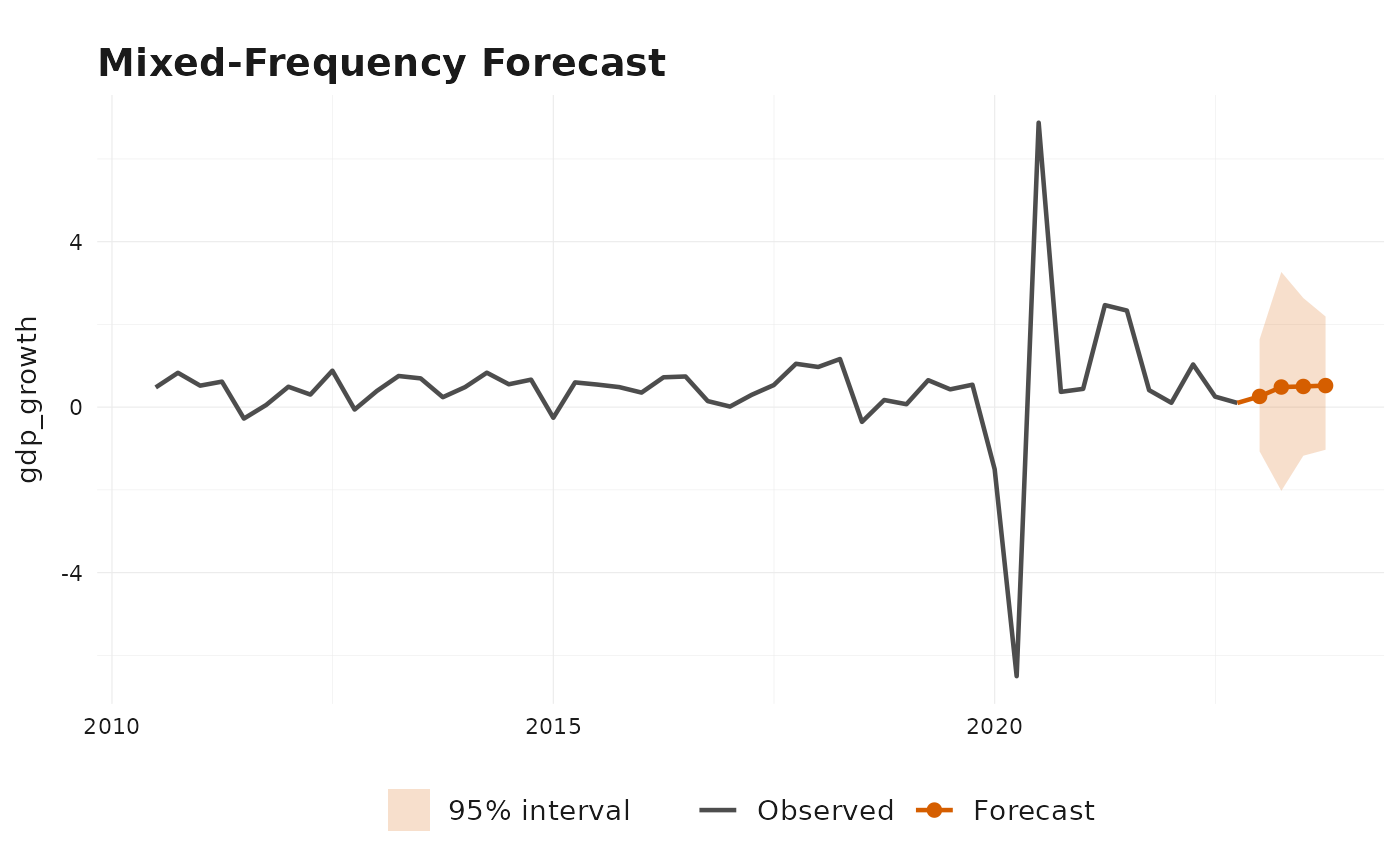
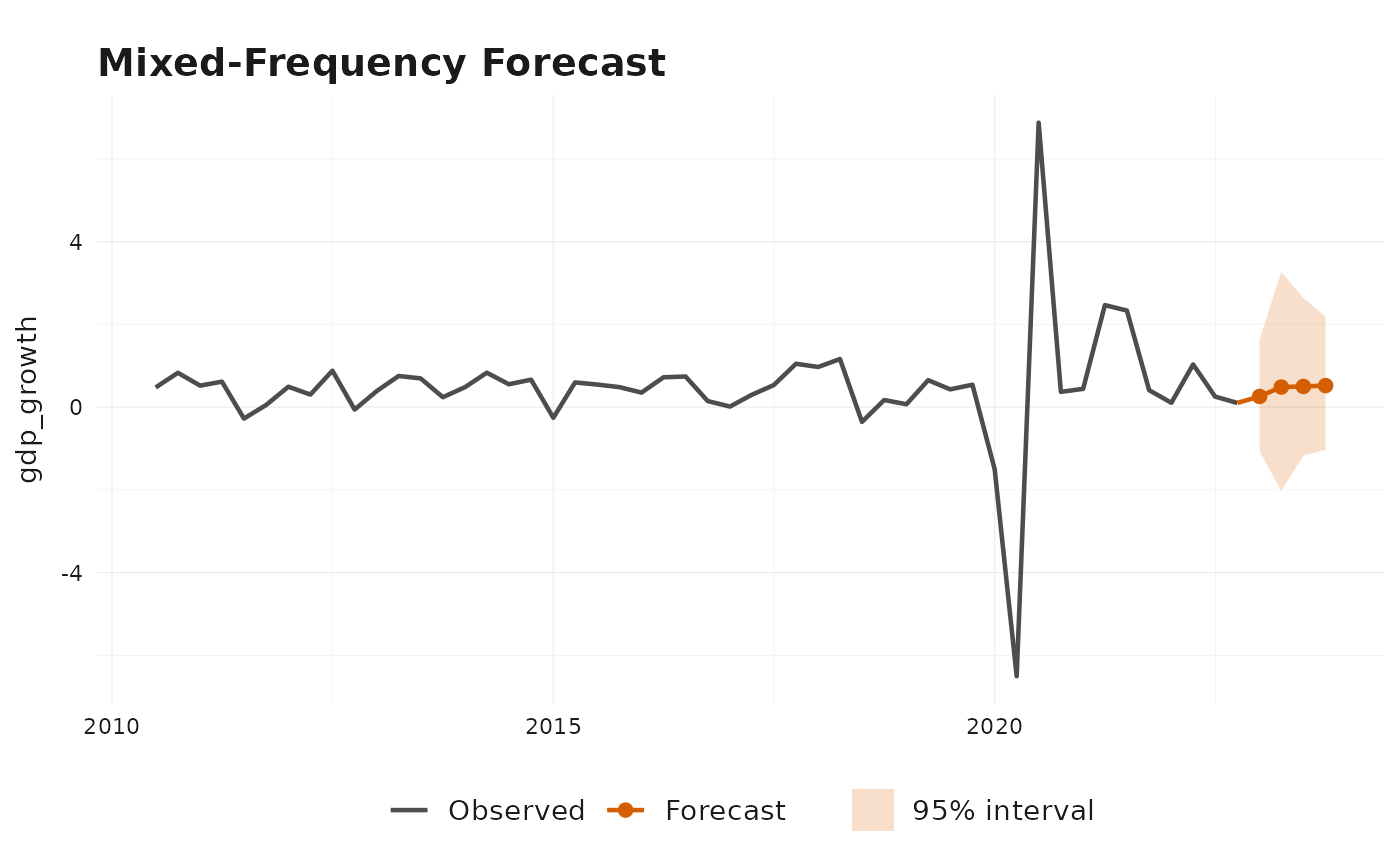
Deploying to gh-pages from @ marcburri/bridgr@0afef99fe4f7a8aef9105225bc90c36d7242f563 🚀

Changed region(s): [[0.4914, 0.9052, 0.7986, 0.9676], [0.2764, 0.9052, 0.4607, 0.9676]]

diff --git a/reference/mf_model-accessors.html b/reference/mf_model-accessors.html
@@ -5,7 +5,7 @@
       fontURL: "https://cdn.jsdelivr.net/npm/mathjax@3.2.2/es5/output/chtml/fonts/woff-v2"
     }
   };
-</script><script src="../lightswitch.js"></script><script src="../deps/jquery-3.6.0/jquery-3.6.0.min.js"></script><meta name="viewport" content="width=device-width, initial-scale=1, shrink-to-fit=no"><link href="../deps/bootstrap-5.3.1/bootstrap.min.css" rel="stylesheet"><script src="../deps/bootstrap-5.3.1/bootstrap.bundle.min.js"></script><link href="../deps/font-awesome-6.5.2/css/all.min.css" rel="stylesheet"><link href="../deps/font-awesome-6.5.2/css/v4-shims.min.css" rel="stylesheet"><script src="../deps/headroom-0.11.0/headroom.min.js"></script><script src="../deps/headroom-0.11.0/jQuery.headroom.min.js"></script><script src="../deps/bootstrap-toc-1.0.1/bootstrap-toc.min.js"></script><script src="../deps/clipboard.js-2.0.11/clipboard.min.js"></script><script src="../deps/search-1.0.0/autocomplete.jquery.min.js"></script><script src="../deps/search-1.0.0/fuse.min.js"></script><script src="../deps/search-1.0.0/mark.min.js"></script><!-- pkgdown --><script src="../pkgdown.js"></script><meta property="og:title" content="Accessor Methods for Mixed-Frequency Models — mf_model-accessors"><meta name="description" content="Access standard model summaries from a fitted mf_model() object."><meta property="og:description" content="Access standard model summaries from a fitted mf_model() object."><meta property="og:image" content="https://marcburri.github.io/bridgr/logo.png"></head><body>
+</script><script src="../lightswitch.js"></script><script src="../deps/jquery-3.6.0/jquery-3.6.0.min.js"></script><meta name="viewport" content="width=device-width, initial-scale=1, shrink-to-fit=no"><link href="../deps/bootstrap-5.3.8/bootstrap.min.css" rel="stylesheet"><script src="../deps/bootstrap-5.3.8/bootstrap.bundle.min.js"></script><link href="../deps/font-awesome-6.5.2/css/all.min.css" rel="stylesheet"><link href="../deps/font-awesome-6.5.2/css/v4-shims.min.css" rel="stylesheet"><script src="../deps/headroom-0.11.0/headroom.min.js"></script><script src="../deps/headroom-0.11.0/jQuery.headroom.min.js"></script><script src="../deps/bootstrap-toc-1.0.1/bootstrap-toc.min.js"></script><script src="../deps/clipboard.js-2.0.11/clipboard.min.js"></script><script src="../deps/search-1.0.0/autocomplete.jquery.min.js"></script><script src="../deps/search-1.0.0/fuse.min.js"></script><script src="../deps/search-1.0.0/mark.min.js"></script><!-- pkgdown --><script src="../pkgdown.js"></script><meta property="og:title" content="Accessor Methods for Mixed-Frequency Models — mf_model-accessors"><meta name="description" content="Access standard model summaries from a fitted mf_model() object."><meta property="og:description" content="Access standard model summaries from a fitted mf_model() object."><meta property="og:image" content="https://marcburri.github.io/bridgr/logo.png"></head><body>
     <a href="#main" class="visually-hidden-focusable">Skip to contents</a>
 
 
@@ -96,7 +96,11 @@
 
 <dt id="arg-parm-level">parm, level<a class="anchor" aria-label="anchor" href="#arg-parm-level"></a></dt>
 <dd><p>Passed to <code><a href="https://rdrr.io/r/stats/confint.html" class="external-link">confint()</a></code>. Confidence intervals are computed
-from the coefficient covariance matrix returned by <code><a href="https://rdrr.io/r/stats/vcov.html" class="external-link">stats::vcov()</a></code>.</p></dd>
+from the coefficient covariance matrix returned by <code><a href="https://rdrr.io/r/stats/vcov.html" class="external-link">stats::vcov()</a></code>, which
+may be the HAC or Delta-HAC covariance when <code>se = TRUE</code>. Critical values
+use a t-distribution with residual degrees of freedom from the fitted
+target equation; this is conservative relative to asymptotic normal
+critical values but is common practice in applied econometrics.</p></dd>
 
 </dl></div>
     <div class="section level2">

diff --git a/reference/mf_model.html b/reference/mf_model.html
@@ -5,7 +5,7 @@
       fontURL: "https://cdn.jsdelivr.net/npm/mathjax@3.2.2/es5/output/chtml/fonts/woff-v2"
     }
   };
-</script><script src="../lightswitch.js"></script><script src="../deps/jquery-3.6.0/jquery-3.6.0.min.js"></script><meta name="viewport" content="width=device-width, initial-scale=1, shrink-to-fit=no"><link href="../deps/bootstrap-5.3.1/bootstrap.min.css" rel="stylesheet"><script src="../deps/bootstrap-5.3.1/bootstrap.bundle.min.js"></script><link href="../deps/font-awesome-6.5.2/css/all.min.css" rel="stylesheet"><link href="../deps/font-awesome-6.5.2/css/v4-shims.min.css" rel="stylesheet"><script src="../deps/headroom-0.11.0/headroom.min.js"></script><script src="../deps/headroom-0.11.0/jQuery.headroom.min.js"></script><script src="../deps/bootstrap-toc-1.0.1/bootstrap-toc.min.js"></script><script src="../deps/clipboard.js-2.0.11/clipboard.min.js"></script><script src="../deps/search-1.0.0/autocomplete.jquery.min.js"></script><script src="../deps/search-1.0.0/fuse.min.js"></script><script src="../deps/search-1.0.0/mark.min.js"></script><!-- pkgdown --><script src="../pkgdown.js"></script><meta property="og:title" content="Estimate a Mixed-Frequency Model — mf_model"><meta name="description" content="Estimate a bridge model that links one lower-frequency target series to one
+</script><script src="../lightswitch.js"></script><script src="../deps/jquery-3.6.0/jquery-3.6.0.min.js"></script><meta name="viewport" content="width=device-width, initial-scale=1, shrink-to-fit=no"><link href="../deps/bootstrap-5.3.8/bootstrap.min.css" rel="stylesheet"><script src="../deps/bootstrap-5.3.8/bootstrap.bundle.min.js"></script><link href="../deps/font-awesome-6.5.2/css/all.min.css" rel="stylesheet"><link href="../deps/font-awesome-6.5.2/css/v4-shims.min.css" rel="stylesheet"><script src="../deps/headroom-0.11.0/headroom.min.js"></script><script src="../deps/headroom-0.11.0/jQuery.headroom.min.js"></script><script src="../deps/bootstrap-toc-1.0.1/bootstrap-toc.min.js"></script><script src="../deps/clipboard.js-2.0.11/clipboard.min.js"></script><script src="../deps/search-1.0.0/autocomplete.jquery.min.js"></script><script src="../deps/search-1.0.0/fuse.min.js"></script><script src="../deps/search-1.0.0/mark.min.js"></script><!-- pkgdown --><script src="../pkgdown.js"></script><meta property="og:title" content="Estimate a Mixed-Frequency Model — mf_model"><meta name="description" content="Estimate a bridge model that links one lower-frequency target series to one
 or more higher-frequency indicator series. Indicators are aligned to the
 target frequency by forecasting any missing higher-frequency observations and
 aggregating them within each target period."><meta property="og:description" content="Estimate a bridge model that links one lower-frequency target series to one
@@ -135,9 +135,9 @@ the inferred target-period block size. <code>"unrestricted"</code> keeps one sep
 coefficient per high-frequency observation within the target period. The
 parametric aggregators use two coefficients each: <code>"expalmon"</code> uses
 <code>(linear, quadratic)</code>, and <code>"beta"</code> uses <code>(left_shape, right_shape)</code> as the
-normalized beta shape parameters. When <code>indic_predict = "direct"</code>,
-<code>indic_aggregators</code> is ignored and direct blocks are averaged within each
-target period.</p></dd>
+normalized beta shape parameters. When <code>indic_predict = "direct"</code>, the
+supplied aggregation is applied directly to the aligned complete
+high-frequency blocks within each target period.</p></dd>
 
 
 <dt id="arg-indic-lags">indic_lags<a class="anchor" aria-label="anchor" href="#arg-indic-lags"></a></dt>

diff --git a/404.html b/404.html
@@ -18,8 +18,8 @@
     }
   };
 </script><script src="https://marcburri.github.io/bridgr/lightswitch.js"></script><script src="https://marcburri.github.io/bridgr/deps/jquery-3.6.0/jquery-3.6.0.min.js"></script><meta name="viewport" content="width=device-width, initial-scale=1, shrink-to-fit=no">
-<link href="https://marcburri.github.io/bridgr/deps/bootstrap-5.3.1/bootstrap.min.css" rel="stylesheet">
-<script src="https://marcburri.github.io/bridgr/deps/bootstrap-5.3.1/bootstrap.bundle.min.js"></script><link href="https://marcburri.github.io/bridgr/deps/font-awesome-6.5.2/css/all.min.css" rel="stylesheet">
+<link href="https://marcburri.github.io/bridgr/deps/bootstrap-5.3.8/bootstrap.min.css" rel="stylesheet">
+<script src="https://marcburri.github.io/bridgr/deps/bootstrap-5.3.8/bootstrap.bundle.min.js"></script><link href="https://marcburri.github.io/bridgr/deps/font-awesome-6.5.2/css/all.min.css" rel="stylesheet">
 <link href="https://marcburri.github.io/bridgr/deps/font-awesome-6.5.2/css/v4-shims.min.css" rel="stylesheet">
 <script src="https://marcburri.github.io/bridgr/deps/headroom-0.11.0/headroom.min.js"></script><script src="https://marcburri.github.io/bridgr/deps/headroom-0.11.0/jQuery.headroom.min.js"></script><script src="https://marcburri.github.io/bridgr/deps/bootstrap-toc-1.0.1/bootstrap-toc.min.js"></script><script src="https://marcburri.github.io/bridgr/deps/clipboard.js-2.0.11/clipboard.min.js"></script><script src="https://marcburri.github.io/bridgr/deps/search-1.0.0/autocomplete.jquery.min.js"></script><script src="https://marcburri.github.io/bridgr/deps/search-1.0.0/fuse.min.js"></script><script src="https://marcburri.github.io/bridgr/deps/search-1.0.0/mark.min.js"></script><!-- pkgdown --><script src="https://marcburri.github.io/bridgr/pkgdown.js"></script><meta property="og:title" content="Page not found (404)">
 <meta property="og:image" content="https://marcburri.github.io/bridgr/logo.png">

diff --git a/articles/bridgr.html b/articles/bridgr.html
@@ -18,8 +18,8 @@
     }
   };
 </script><script src="../lightswitch.js"></script><script src="../deps/jquery-3.6.0/jquery-3.6.0.min.js"></script><meta name="viewport" content="width=device-width, initial-scale=1, shrink-to-fit=no">
-<link href="../deps/bootstrap-5.3.1/bootstrap.min.css" rel="stylesheet">
-<script src="../deps/bootstrap-5.3.1/bootstrap.bundle.min.js"></script><link href="../deps/font-awesome-6.5.2/css/all.min.css" rel="stylesheet">
+<link href="../deps/bootstrap-5.3.8/bootstrap.min.css" rel="stylesheet">
+<script src="../deps/bootstrap-5.3.8/bootstrap.bundle.min.js"></script><link href="../deps/font-awesome-6.5.2/css/all.min.css" rel="stylesheet">
 <link href="../deps/font-awesome-6.5.2/css/v4-shims.min.css" rel="stylesheet">
 <script src="../deps/headroom-0.11.0/headroom.min.js"></script><script src="../deps/headroom-0.11.0/jQuery.headroom.min.js"></script><script src="../deps/bootstrap-toc-1.0.1/bootstrap-toc.min.js"></script><script src="../deps/clipboard.js-2.0.11/clipboard.min.js"></script><script src="../deps/search-1.0.0/autocomplete.jquery.min.js"></script><script src="../deps/search-1.0.0/fuse.min.js"></script><script src="../deps/search-1.0.0/mark.min.js"></script><!-- pkgdown --><script src="../pkgdown.js"></script><meta property="og:title" content="Getting Started with bridgr">
 </head>

diff --git a/articles/mixed-frequency-modeling.html b/articles/mixed-frequency-modeling.html
@@ -18,8 +18,8 @@
     }
   };
 </script><script src="../lightswitch.js"></script><script src="../deps/jquery-3.6.0/jquery-3.6.0.min.js"></script><meta name="viewport" content="width=device-width, initial-scale=1, shrink-to-fit=no">
-<link href="../deps/bootstrap-5.3.1/bootstrap.min.css" rel="stylesheet">
-<script src="../deps/bootstrap-5.3.1/bootstrap.bundle.min.js"></script><link href="../deps/font-awesome-6.5.2/css/all.min.css" rel="stylesheet">
+<link href="../deps/bootstrap-5.3.8/bootstrap.min.css" rel="stylesheet">
+<script src="../deps/bootstrap-5.3.8/bootstrap.bundle.min.js"></script><link href="../deps/font-awesome-6.5.2/css/all.min.css" rel="stylesheet">
 <link href="../deps/font-awesome-6.5.2/css/v4-shims.min.css" rel="stylesheet">
 <script src="../deps/headroom-0.11.0/headroom.min.js"></script><script src="../deps/headroom-0.11.0/jQuery.headroom.min.js"></script><script src="../deps/bootstrap-toc-1.0.1/bootstrap-toc.min.js"></script><script src="../deps/clipboard.js-2.0.11/clipboard.min.js"></script><script src="../deps/search-1.0.0/autocomplete.jquery.min.js"></script><script src="../deps/search-1.0.0/fuse.min.js"></script><script src="../deps/search-1.0.0/mark.min.js"></script><!-- pkgdown --><script src="../pkgdown.js"></script><meta property="og:title" content="Aggregation and Mixed-Frequency Modeling in bridgr">
 </head>

diff --git a/articles/ragged-edge-nowcasting.html b/articles/ragged-edge-nowcasting.html
@@ -18,8 +18,8 @@
     }
   };
 </script><script src="../lightswitch.js"></script><script src="../deps/jquery-3.6.0/jquery-3.6.0.min.js"></script><meta name="viewport" content="width=device-width, initial-scale=1, shrink-to-fit=no">
-<link href="../deps/bootstrap-5.3.1/bootstrap.min.css" rel="stylesheet">
-<script src="../deps/bootstrap-5.3.1/bootstrap.bundle.min.js"></script><link href="../deps/font-awesome-6.5.2/css/all.min.css" rel="stylesheet">
+<link href="../deps/bootstrap-5.3.8/bootstrap.min.css" rel="stylesheet">
+<script src="../deps/bootstrap-5.3.8/bootstrap.bundle.min.js"></script><link href="../deps/font-awesome-6.5.2/css/all.min.css" rel="stylesheet">
 <link href="../deps/font-awesome-6.5.2/css/v4-shims.min.css" rel="stylesheet">
 <script src="../deps/headroom-0.11.0/headroom.min.js"></script><script src="../deps/headroom-0.11.0/jQuery.headroom.min.js"></script><script src="../deps/bootstrap-toc-1.0.1/bootstrap-toc.min.js"></script><script src="../deps/clipboard.js-2.0.11/clipboard.min.js"></script><script src="../deps/search-1.0.0/autocomplete.jquery.min.js"></script><script src="../deps/search-1.0.0/fuse.min.js"></script><script src="../deps/search-1.0.0/mark.min.js"></script><!-- pkgdown --><script src="../pkgdown.js"></script><meta property="og:title" content="Ragged-Edge Nowcasting with bridgr">
 </head>

diff --git a/articles/uncertainty-and-scenarios.html b/articles/uncertainty-and-scenarios.html
@@ -18,8 +18,8 @@
     }
   };
 </script><script src="../lightswitch.js"></script><script src="../deps/jquery-3.6.0/jquery-3.6.0.min.js"></script><meta name="viewport" content="width=device-width, initial-scale=1, shrink-to-fit=no">
-<link href="../deps/bootstrap-5.3.1/bootstrap.min.css" rel="stylesheet">
-<script src="../deps/bootstrap-5.3.1/bootstrap.bundle.min.js"></script><link href="../deps/font-awesome-6.5.2/css/all.min.css" rel="stylesheet">
+<link href="../deps/bootstrap-5.3.8/bootstrap.min.css" rel="stylesheet">
+<script src="../deps/bootstrap-5.3.8/bootstrap.bundle.min.js"></script><link href="../deps/font-awesome-6.5.2/css/all.min.css" rel="stylesheet">
 <link href="../deps/font-awesome-6.5.2/css/v4-shims.min.css" rel="stylesheet">
 <script src="../deps/headroom-0.11.0/headroom.min.js"></script><script src="../deps/headroom-0.11.0/jQuery.headroom.min.js"></script><script src="../deps/bootstrap-toc-1.0.1/bootstrap-toc.min.js"></script><script src="../deps/clipboard.js-2.0.11/clipboard.min.js"></script><script src="../deps/search-1.0.0/autocomplete.jquery.min.js"></script><script src="../deps/search-1.0.0/fuse.min.js"></script><script src="../deps/search-1.0.0/mark.min.js"></script><!-- pkgdown --><script src="../pkgdown.js"></script><meta property="og:title" content="Uncertainty and Scenario Forecasting">
 </head>

diff --git a/index.html b/index.html
@@ -18,8 +18,8 @@
     }
   };
 </script><script src="lightswitch.js"></script><script src="deps/jquery-3.6.0/jquery-3.6.0.min.js"></script><meta name="viewport" content="width=device-width, initial-scale=1, shrink-to-fit=no">
-<link href="deps/bootstrap-5.3.1/bootstrap.min.css" rel="stylesheet">
-<script src="deps/bootstrap-5.3.1/bootstrap.bundle.min.js"></script><link href="deps/font-awesome-6.5.2/css/all.min.css" rel="stylesheet">
+<link href="deps/bootstrap-5.3.8/bootstrap.min.css" rel="stylesheet">
+<script src="deps/bootstrap-5.3.8/bootstrap.bundle.min.js"></script><link href="deps/font-awesome-6.5.2/css/all.min.css" rel="stylesheet">
 <link href="deps/font-awesome-6.5.2/css/v4-shims.min.css" rel="stylesheet">
 <script src="deps/headroom-0.11.0/headroom.min.js"></script><script src="deps/headroom-0.11.0/jQuery.headroom.min.js"></script><script src="deps/bootstrap-toc-1.0.1/bootstrap-toc.min.js"></script><script src="deps/clipboard.js-2.0.11/clipboard.min.js"></script><script src="deps/search-1.0.0/autocomplete.jquery.min.js"></script><script src="deps/search-1.0.0/fuse.min.js"></script><script src="deps/search-1.0.0/mark.min.js"></script><!-- pkgdown --><script src="pkgdown.js"></script><meta property="og:title" content="Bridging Data Frequencies for Timely Economic Forecasts">
 <meta name="description" content="Implements bridge and MIDAS-style mixed-frequency models for nowcasting and forecasting macroeconomic variables by linking higher-frequency indicator variables to a lower-frequency target series. The package standardizes input data, infers regular frequencies, forecasts missing indicator observations, and aggregates indicators to the target frequency before fitting a regression with autoregressive target dynamics. Frequency alignment can be customized through user-supplied conversion rules. For more on bridge and MIDAS models, see Baffigi, A., Golinelli, R., &amp; Parigi, G. (2004) &lt;doi:10.1016/S0169-2070(03)00067-0&gt;, Ghysels, Sinko, &amp; Valkanov (2007) &lt;doi:10.1080/07474930600972467&gt;, Andreou, Ghysels, &amp; Kourtellos (2010) &lt;doi:10.1016/j.jeconom.2010.01.004&gt;, Schumacher (2016) &lt;doi:10.1016/j.ijforecast.2015.07.004&gt;, and Burri (2026) &lt;doi:10.1111/obes.70073&gt;.">

diff --git a/CODE_OF_CONDUCT.html b/CODE_OF_CONDUCT.html
@@ -5,7 +5,7 @@
       fontURL: "https://cdn.jsdelivr.net/npm/mathjax@3.2.2/es5/output/chtml/fonts/woff-v2"
     }
   };
-</script><script src="lightswitch.js"></script><script src="deps/jquery-3.6.0/jquery-3.6.0.min.js"></script><meta name="viewport" content="width=device-width, initial-scale=1, shrink-to-fit=no"><link href="deps/bootstrap-5.3.1/bootstrap.min.css" rel="stylesheet"><script src="deps/bootstrap-5.3.1/bootstrap.bundle.min.js"></script><link href="deps/font-awesome-6.5.2/css/all.min.css" rel="stylesheet"><link href="deps/font-awesome-6.5.2/css/v4-shims.min.css" rel="stylesheet"><script src="deps/headroom-0.11.0/headroom.min.js"></script><script src="deps/headroom-0.11.0/jQuery.headroom.min.js"></script><script src="deps/bootstrap-toc-1.0.1/bootstrap-toc.min.js"></script><script src="deps/clipboard.js-2.0.11/clipboard.min.js"></script><script src="deps/search-1.0.0/autocomplete.jquery.min.js"></script><script src="deps/search-1.0.0/fuse.min.js"></script><script src="deps/search-1.0.0/mark.min.js"></script><!-- pkgdown --><script src="pkgdown.js"></script><meta property="og:title" content="Contributor Covenant Code of Conduct"><meta property="og:image" content="https://marcburri.github.io/bridgr/logo.png"></head><body>
+</script><script src="lightswitch.js"></script><script src="deps/jquery-3.6.0/jquery-3.6.0.min.js"></script><meta name="viewport" content="width=device-width, initial-scale=1, shrink-to-fit=no"><link href="deps/bootstrap-5.3.8/bootstrap.min.css" rel="stylesheet"><script src="deps/bootstrap-5.3.8/bootstrap.bundle.min.js"></script><link href="deps/font-awesome-6.5.2/css/all.min.css" rel="stylesheet"><link href="deps/font-awesome-6.5.2/css/v4-shims.min.css" rel="stylesheet"><script src="deps/headroom-0.11.0/headroom.min.js"></script><script src="deps/headroom-0.11.0/jQuery.headroom.min.js"></script><script src="deps/bootstrap-toc-1.0.1/bootstrap-toc.min.js"></script><script src="deps/clipboard.js-2.0.11/clipboard.min.js"></script><script src="deps/search-1.0.0/autocomplete.jquery.min.js"></script><script src="deps/search-1.0.0/fuse.min.js"></script><script src="deps/search-1.0.0/mark.min.js"></script><!-- pkgdown --><script src="pkgdown.js"></script><meta property="og:title" content="Contributor Covenant Code of Conduct"><meta property="og:image" content="https://marcburri.github.io/bridgr/logo.png"></head><body>
     <a href="#main" class="visually-hidden-focusable">Skip to contents</a>
 
 

diff --git a/CONTRIBUTING.html b/CONTRIBUTING.html
@@ -5,7 +5,7 @@
       fontURL: "https://cdn.jsdelivr.net/npm/mathjax@3.2.2/es5/output/chtml/fonts/woff-v2"
     }
   };
-</script><script src="lightswitch.js"></script><script src="deps/jquery-3.6.0/jquery-3.6.0.min.js"></script><meta name="viewport" content="width=device-width, initial-scale=1, shrink-to-fit=no"><link href="deps/bootstrap-5.3.1/bootstrap.min.css" rel="stylesheet"><script src="deps/bootstrap-5.3.1/bootstrap.bundle.min.js"></script><link href="deps/font-awesome-6.5.2/css/all.min.css" rel="stylesheet"><link href="deps/font-awesome-6.5.2/css/v4-shims.min.css" rel="stylesheet"><script src="deps/headroom-0.11.0/headroom.min.js"></script><script src="deps/headroom-0.11.0/jQuery.headroom.min.js"></script><script src="deps/bootstrap-toc-1.0.1/bootstrap-toc.min.js"></script><script src="deps/clipboard.js-2.0.11/clipboard.min.js"></script><script src="deps/search-1.0.0/autocomplete.jquery.min.js"></script><script src="deps/search-1.0.0/fuse.min.js"></script><script src="deps/search-1.0.0/mark.min.js"></script><!-- pkgdown --><script src="pkgdown.js"></script><meta property="og:title" content="Contributing to bridgr"><meta property="og:image" content="https://marcburri.github.io/bridgr/logo.png"></head><body>
+</script><script src="lightswitch.js"></script><script src="deps/jquery-3.6.0/jquery-3.6.0.min.js"></script><meta name="viewport" content="width=device-width, initial-scale=1, shrink-to-fit=no"><link href="deps/bootstrap-5.3.8/bootstrap.min.css" rel="stylesheet"><script src="deps/bootstrap-5.3.8/bootstrap.bundle.min.js"></script><link href="deps/font-awesome-6.5.2/css/all.min.css" rel="stylesheet"><link href="deps/font-awesome-6.5.2/css/v4-shims.min.css" rel="stylesheet"><script src="deps/headroom-0.11.0/headroom.min.js"></script><script src="deps/headroom-0.11.0/jQuery.headroom.min.js"></script><script src="deps/bootstrap-toc-1.0.1/bootstrap-toc.min.js"></script><script src="deps/clipboard.js-2.0.11/clipboard.min.js"></script><script src="deps/search-1.0.0/autocomplete.jquery.min.js"></script><script src="deps/search-1.0.0/fuse.min.js"></script><script src="deps/search-1.0.0/mark.min.js"></script><!-- pkgdown --><script src="pkgdown.js"></script><meta property="og:title" content="Contributing to bridgr"><meta property="og:image" content="https://marcburri.github.io/bridgr/logo.png"></head><body>
     <a href="#main" class="visually-hidden-focusable">Skip to contents</a>
 
 

diff --git a/LICENSE-text.html b/LICENSE-text.html
@@ -5,7 +5,7 @@
       fontURL: "https://cdn.jsdelivr.net/npm/mathjax@3.2.2/es5/output/chtml/fonts/woff-v2"
     }
   };
-</script><script src="lightswitch.js"></script><script src="deps/jquery-3.6.0/jquery-3.6.0.min.js"></script><meta name="viewport" content="width=device-width, initial-scale=1, shrink-to-fit=no"><link href="deps/bootstrap-5.3.1/bootstrap.min.css" rel="stylesheet"><script src="deps/bootstrap-5.3.1/bootstrap.bundle.min.js"></script><link href="deps/font-awesome-6.5.2/css/all.min.css" rel="stylesheet"><link href="deps/font-awesome-6.5.2/css/v4-shims.min.css" rel="stylesheet"><script src="deps/headroom-0.11.0/headroom.min.js"></script><script src="deps/headroom-0.11.0/jQuery.headroom.min.js"></script><script src="deps/bootstrap-toc-1.0.1/bootstrap-toc.min.js"></script><script src="deps/clipboard.js-2.0.11/clipboard.min.js"></script><script src="deps/search-1.0.0/autocomplete.jquery.min.js"></script><script src="deps/search-1.0.0/fuse.min.js"></script><script src="deps/search-1.0.0/mark.min.js"></script><!-- pkgdown --><script src="pkgdown.js"></script><meta property="og:title" content="License"><meta property="og:image" content="https://marcburri.github.io/bridgr/logo.png"></head><body>
+</script><script src="lightswitch.js"></script><script src="deps/jquery-3.6.0/jquery-3.6.0.min.js"></script><meta name="viewport" content="width=device-width, initial-scale=1, shrink-to-fit=no"><link href="deps/bootstrap-5.3.8/bootstrap.min.css" rel="stylesheet"><script src="deps/bootstrap-5.3.8/bootstrap.bundle.min.js"></script><link href="deps/font-awesome-6.5.2/css/all.min.css" rel="stylesheet"><link href="deps/font-awesome-6.5.2/css/v4-shims.min.css" rel="stylesheet"><script src="deps/headroom-0.11.0/headroom.min.js"></script><script src="deps/headroom-0.11.0/jQuery.headroom.min.js"></script><script src="deps/bootstrap-toc-1.0.1/bootstrap-toc.min.js"></script><script src="deps/clipboard.js-2.0.11/clipboard.min.js"></script><script src="deps/search-1.0.0/autocomplete.jquery.min.js"></script><script src="deps/search-1.0.0/fuse.min.js"></script><script src="deps/search-1.0.0/mark.min.js"></script><!-- pkgdown --><script src="pkgdown.js"></script><meta property="og:title" content="License"><meta property="og:image" content="https://marcburri.github.io/bridgr/logo.png"></head><body>
     <a href="#main" class="visually-hidden-focusable">Skip to contents</a>
 
 

diff --git a/LICENSE.html b/LICENSE.html
@@ -5,7 +5,7 @@
       fontURL: "https://cdn.jsdelivr.net/npm/mathjax@3.2.2/es5/output/chtml/fonts/woff-v2"
     }
   };
-</script><script src="lightswitch.js"></script><script src="deps/jquery-3.6.0/jquery-3.6.0.min.js"></script><meta name="viewport" content="width=device-width, initial-scale=1, shrink-to-fit=no"><link href="deps/bootstrap-5.3.1/bootstrap.min.css" rel="stylesheet"><script src="deps/bootstrap-5.3.1/bootstrap.bundle.min.js"></script><link href="deps/font-awesome-6.5.2/css/all.min.css" rel="stylesheet"><link href="deps/font-awesome-6.5.2/css/v4-shims.min.css" rel="stylesheet"><script src="deps/headroom-0.11.0/headroom.min.js"></script><script src="deps/headroom-0.11.0/jQuery.headroom.min.js"></script><script src="deps/bootstrap-toc-1.0.1/bootstrap-toc.min.js"></script><script src="deps/clipboard.js-2.0.11/clipboard.min.js"></script><script src="deps/search-1.0.0/autocomplete.jquery.min.js"></script><script src="deps/search-1.0.0/fuse.min.js"></script><script src="deps/search-1.0.0/mark.min.js"></script><!-- pkgdown --><script src="pkgdown.js"></script><meta property="og:title" content="MIT License"><meta property="og:image" content="https://marcburri.github.io/bridgr/logo.png"></head><body>
+</script><script src="lightswitch.js"></script><script src="deps/jquery-3.6.0/jquery-3.6.0.min.js"></script><meta name="viewport" content="width=device-width, initial-scale=1, shrink-to-fit=no"><link href="deps/bootstrap-5.3.8/bootstrap.min.css" rel="stylesheet"><script src="deps/bootstrap-5.3.8/bootstrap.bundle.min.js"></script><link href="deps/font-awesome-6.5.2/css/all.min.css" rel="stylesheet"><link href="deps/font-awesome-6.5.2/css/v4-shims.min.css" rel="stylesheet"><script src="deps/headroom-0.11.0/headroom.min.js"></script><script src="deps/headroom-0.11.0/jQuery.headroom.min.js"></script><script src="deps/bootstrap-toc-1.0.1/bootstrap-toc.min.js"></script><script src="deps/clipboard.js-2.0.11/clipboard.min.js"></script><script src="deps/search-1.0.0/autocomplete.jquery.min.js"></script><script src="deps/search-1.0.0/fuse.min.js"></script><script src="deps/search-1.0.0/mark.min.js"></script><!-- pkgdown --><script src="pkgdown.js"></script><meta property="og:title" content="MIT License"><meta property="og:image" content="https://marcburri.github.io/bridgr/logo.png"></head><body>
     <a href="#main" class="visually-hidden-focusable">Skip to contents</a>
 
 